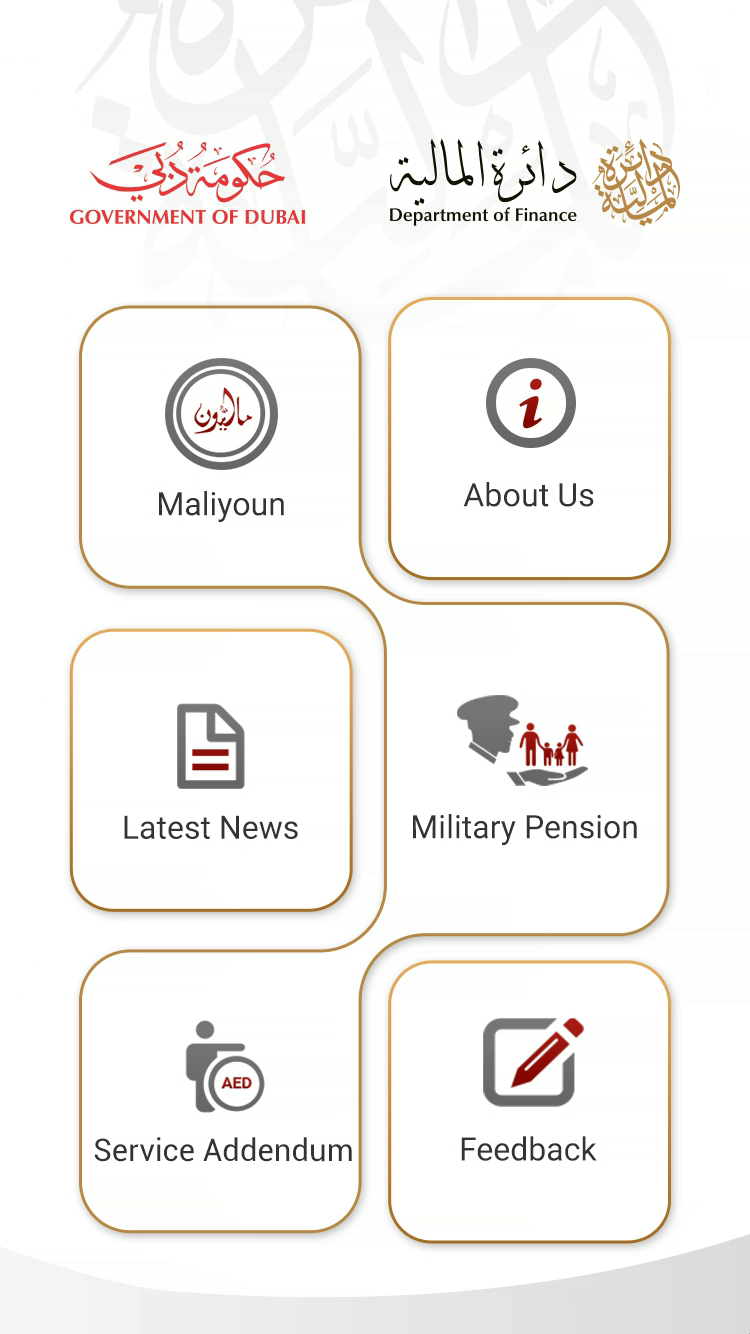
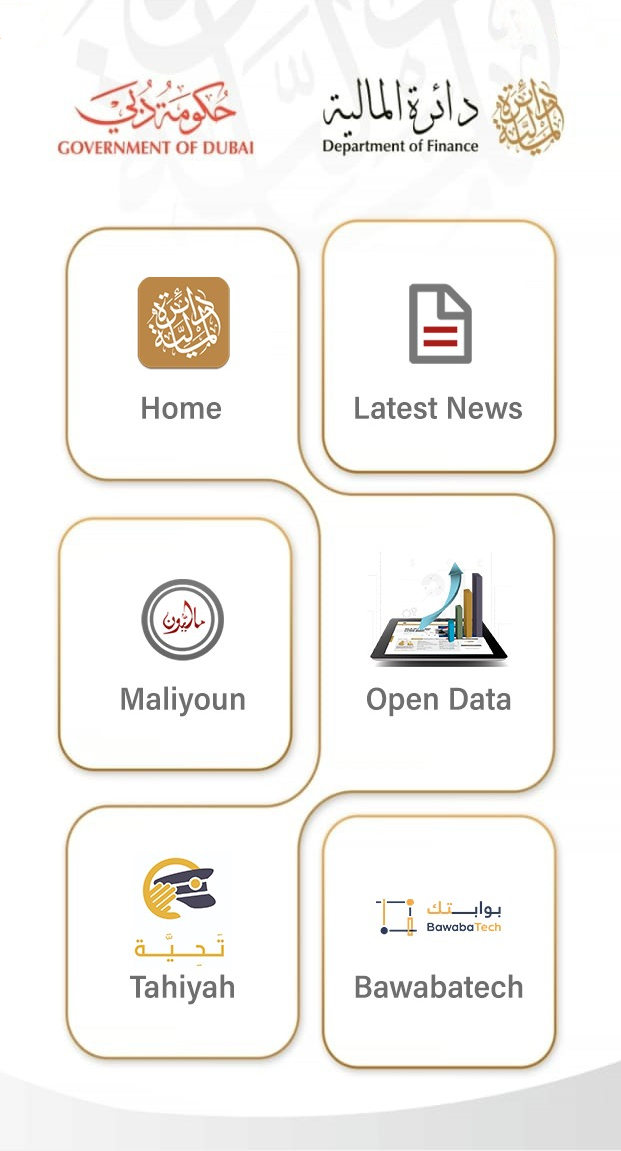
Complete with image design

diff --git a/lib/pages/HomePage.dart b/lib/pages/HomePage.dart
@@ -1,6 +1,8 @@
 import 'dart:async';
 import 'dart:io';
 
+import 'package:avatar_glow/avatar_glow.dart';
+import 'package:eva_icons_flutter/eva_icons_flutter.dart';
 import 'package:flutter/cupertino.dart';
 import 'package:flutter/material.dart';
 import 'package:DOF/network/response/ResponseData.dart';
@@ -41,6 +43,17 @@ class HomeScreenState extends State<HomeScreen> {
   var screen = "APP";
 
   Timer timer = null;
+
+  Map stringResource = {
+    "CopyRight": {
+      "en": "Copyright \u00a9 2016 DOF\nAll right reserved",
+      "ar": "جميع الحقوق محفوظة لدائرة المالية © 2016"
+    },
+    "Home": {
+      "en": "Home",
+      "ar": "الصفحة الرئيسية"
+    }
+  };
 
   loadUrl(String url, String maintainance, String title) {
     EasyLoading.show(status: 'loading...');
@@ -186,7 +199,7 @@ class HomeScreenState extends State<HomeScreen> {
                 Align(
                     alignment: Alignment.bottomCenter,
                     child: Text(
-                      'Copyright \u00a9 2016 DOF\nAll right reserved',
+                      stringResource['CopyRight'][languageCode],
                       style: TextStyle(color: Colors.white),
                     ))
 //              ),
@@ -241,17 +254,21 @@ class HomeScreenState extends State<HomeScreen> {
                 : Stack(
                   children: [
                     Center(
-                      child: Image.asset(
-                        'assets/home.png',
-                        fit: BoxFit.cover,
-                        width: double.infinity,
-                        alignment: Alignment.center,
+                      child: Container(
+                        height: MediaQuery.of(context).size.height,
+                        width: MediaQuery.of(context).size.width,
+                        child: Image.asset(
+                          'assets/home.png',
+                          fit: BoxFit.fill,
+                          width: double.infinity,
+                          alignment: Alignment.center,
+                        ),
                       ),
                     ),
                     Column(
                       children: [
                         Container(
-                          height: MediaQuery.of(context).size.height * .20,
+                          height: MediaQuery.of(context).size.height * .15,
                           width: MediaQuery.of(context).size.width,
                         ),
                         Row(
@@ -336,8 +353,8 @@ class HomeScreenState extends State<HomeScreen> {
                   icon: m.icon != null
                       ? Image.file(
                       File(m.iconLocalPath), width: 25.0, height: 25.0)
-                      : Icon(Icons.account_balance, color: Colors.amber[800],),
-                  label: m.title == 'Home'?'':m.langString.toJson()[languageCode],
+                      : Icon(EvaIcons.gridOutline, size: 25, color: Color(0xff171c22),),
+                  label: m.title == 'Home'?stringResource['Home'][languageCode] :m.langString.toJson()[languageCode],
                 )
 
         ],
@@ -348,7 +365,7 @@ class HomeScreenState extends State<HomeScreen> {
           if (data.data.bottomMenu[value].title =='Home'){
             setState(() {
               screen = 'APP';
-              titleToShow ='Home';
+              titleToShow = stringResource['Home'][languageCode];
               EasyLoading.dismiss();
               _selectedIndex = value;
             });
@@ -405,6 +422,7 @@ class HomeScreenState extends State<HomeScreen> {
       String language = value.getString(CURRENT_LANGUAGE_CODE);
       setState(() {
         languageCode = language == null ? 'ar' : language;
+        titleToShow = stringResource['Home'][languageCode];
       });
     });
 

diff --git a/lib/pages/home_page_native.dart b/lib/pages/home_page_native.dart
@@ -12,29 +12,54 @@ class HomeScreenNative extends StatefulWidget {
 class HomeScreenNativeState extends State<HomeScreenNative> {
   @override
   Widget build(BuildContext context) {
-    return new Container(
-       child: Image.asset(
-          'assets/home.jpg',
-        )
-    );
-    /*return new Container(
-      width: MediaQuery.of(context).size.width *.5,
-        child: Padding(
-          padding:  const EdgeInsets.all(50),
-          child: Stack(children: <Widget>[
-            Positioned.fill(
-              child: CustomPaint(
-                painter: RoundedBorderPainter(
-                  radius: 20,
-                  strokeWidth: 2,
-                  bottomBorderColor: Colors.red,
-                  leftBorderColor: Colors.red,
-                  rightBorderColor: Colors.red,
-                  topBorderColor: Colors.red,
-                ),
-              ),
-            ),
-          ],),
-        ));*/
+
+    return
+      Column(
+        children: [
+
+          Container(
+
+            width: MediaQuery.of(context).size.width *.5,
+            height: MediaQuery.of(context).size.height *.25,
+          ),
+
+          Row(
+            children: [
+              Container(
+                width: MediaQuery.of(context).size.width *.5,
+                height: MediaQuery.of(context).size.height *.25,
+                child: Stack(children: <Widget>[
+                  Positioned.fill(
+                    child: Padding(
+                      padding: EdgeInsets.all(0),
+                      child: CustomPaint(
+                        painter: RoundedBorderPainter(
+                          radius: 20,
+                          strokeWidth: 2,
+                        ),
+                      ),
+                    ),
+                  ),
+                ],)),
+              Container(
+                width: MediaQuery.of(context).size.width *.5,
+                height: MediaQuery.of(context).size.height *.25,
+                child: Stack(children: <Widget>[
+                  Positioned.fill(
+                    child: Padding(
+                      padding: EdgeInsets.all(0 ),
+                      child: CustomPaint(
+                        painter: RoundedBorderPainter(
+                          radius: 20,
+                          strokeWidth: 2,
+                        ),
+                      ),
+                    ),
+                  ),
+                ],)),
+            ],
+          ),
+        ],
+      );
   }
 }
